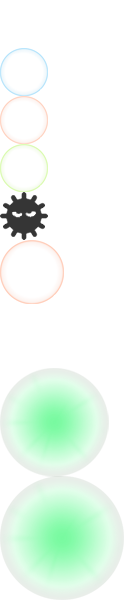
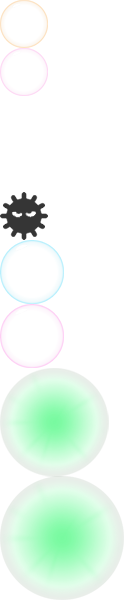
change color of bubbles

diff --git a/views/js/bub-base.js b/views/js/bub-base.js
@@ -277,8 +277,7 @@ $(function() {
 	var b2body = new b2BodyDef();
 	b2body.AddShape(circle);
 	// b2body.userData = { element: element };
-	// b2body.position.Set(x, y);
-	b2body.position.Set(x, 300);
+	b2body.position.Set(x, y);
 	b2body.linearVelocity.Set(sx, sy);
 	return b2body;
       }
@@ -298,17 +297,17 @@ $(function() {
 	return boxBd;
       }
 
-      function ran(width, height){
+      function ran(width, height, thick){
 	return {
 	  x : Math.random() * width,
-	  y : (Math.random() * - height) >> 1,
-	  sx : (Math.random() * 2 - 1) * width,
-	  sy : (Math.random() * 2 - 1) * height
+	  y : Math.random() * thick + height,
+	  sx : (Math.random() - 0.5) * width,
+	  sy : (Math.random() - 1.2) * height
 	};
       }
 
-      function setBall(size, width, height){
-	var r = ran(width, height);
+      function setBall(size, width, height, thick){
+	var r = ran(width, height, thick);
 	var body = world.CreateBody(Circle((size >> 1), r.x, r.y, r.sx, r.sy));
 	return body;
       }
@@ -410,7 +409,7 @@ $(function() {
 	random : function(){
 	  _(balls).each(function(ball){
 	    var body = ball.get("body");
-	    var r = ran(WIDTH, wall_thickness);
+	    var r = ran(WIDTH, HEIGHT, wall_thickness);
 	    body.m_position.x = r.x;
 	    body.m_position.y = r.y;
 	    body.m_linearVelocity.x = r.sx;
@@ -522,7 +521,7 @@ $(function() {
 	  delete options.homepage;
 	  _.chain(options).values().flatten().uniq().each(function(e){
 	    var size = (options.bubs&&_.indexOf(options.bubs,e)!=-1) ? 64 : 48;
-	    var body = setBall(size + 10, WIDTH, wall_thickness);
+	    var body = setBall(size + 2, WIDTH, HEIGHT, wall_thickness);
 	    var ball = new BallModel({
 	      "text": e,
 	      "self": self,
